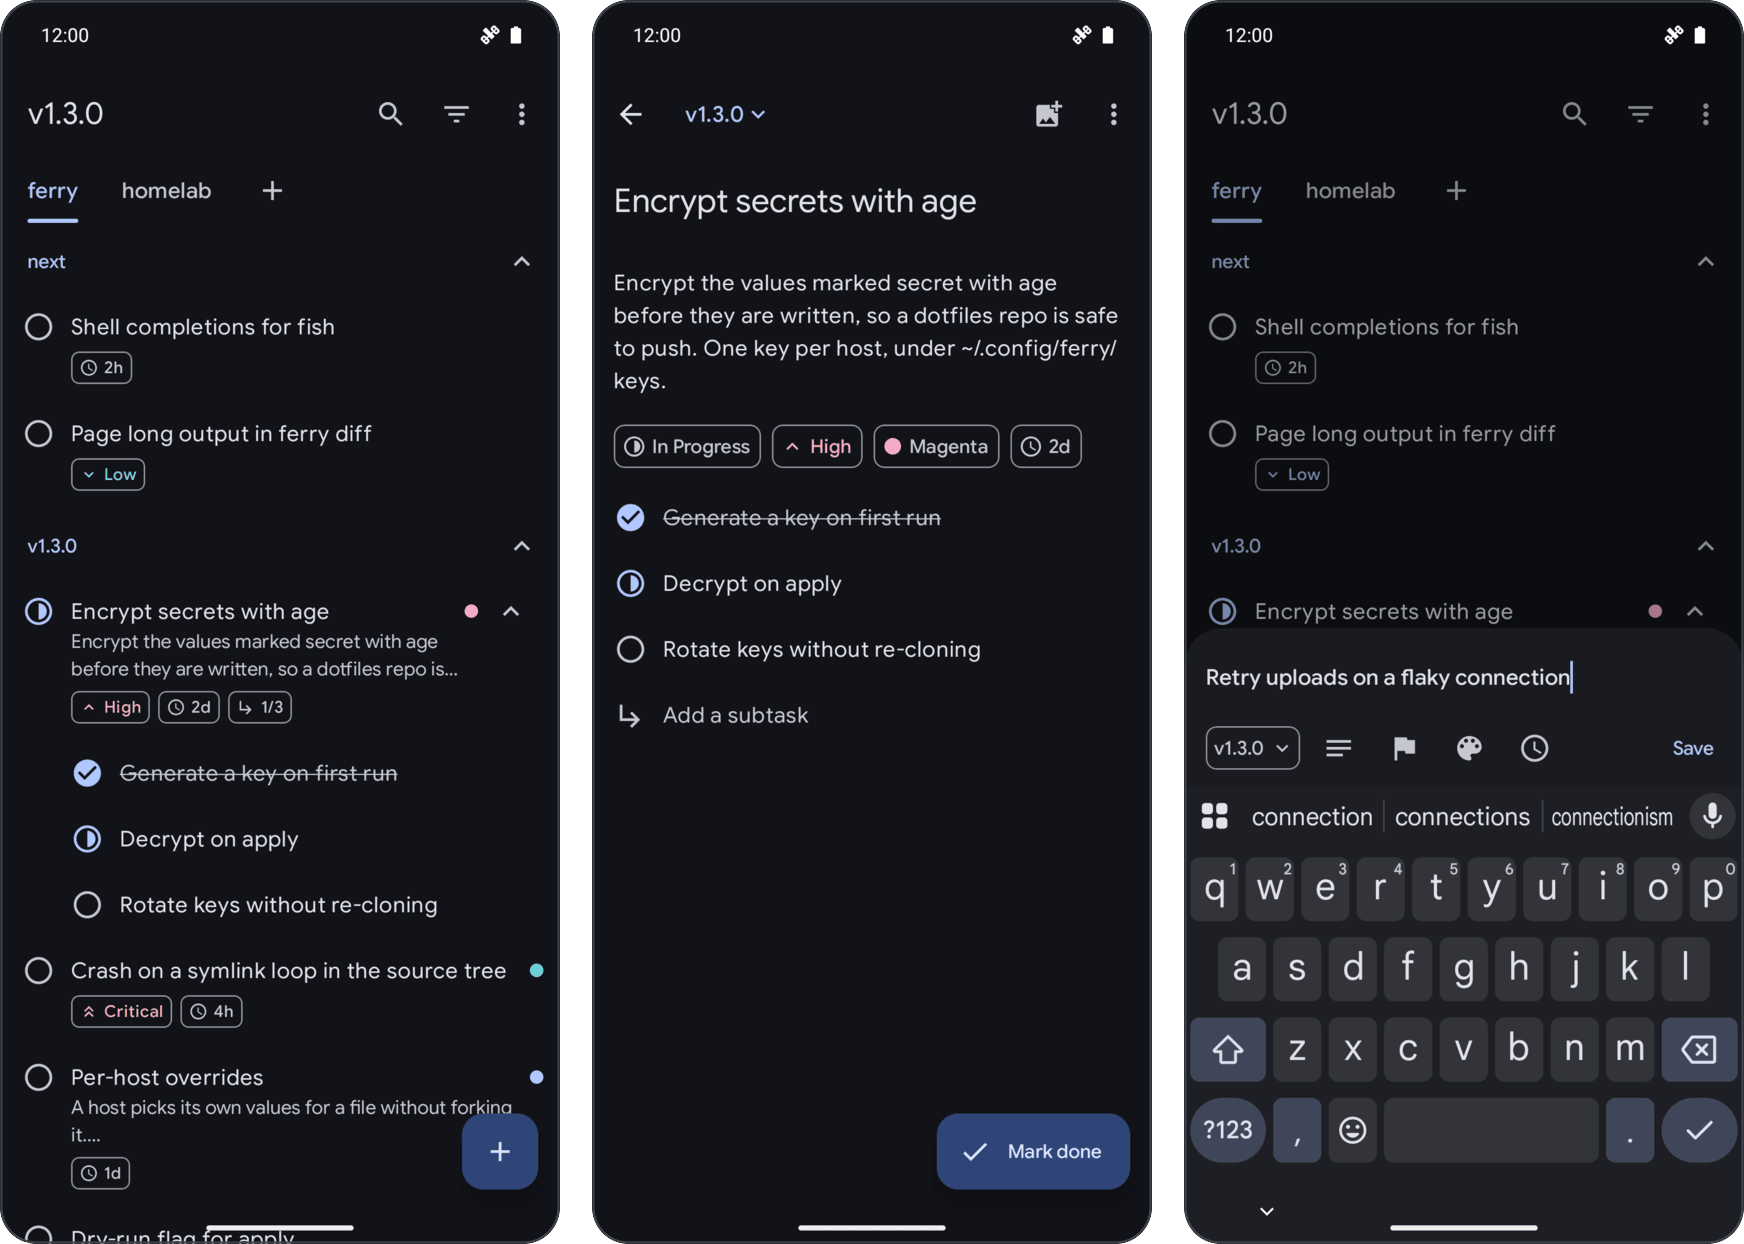
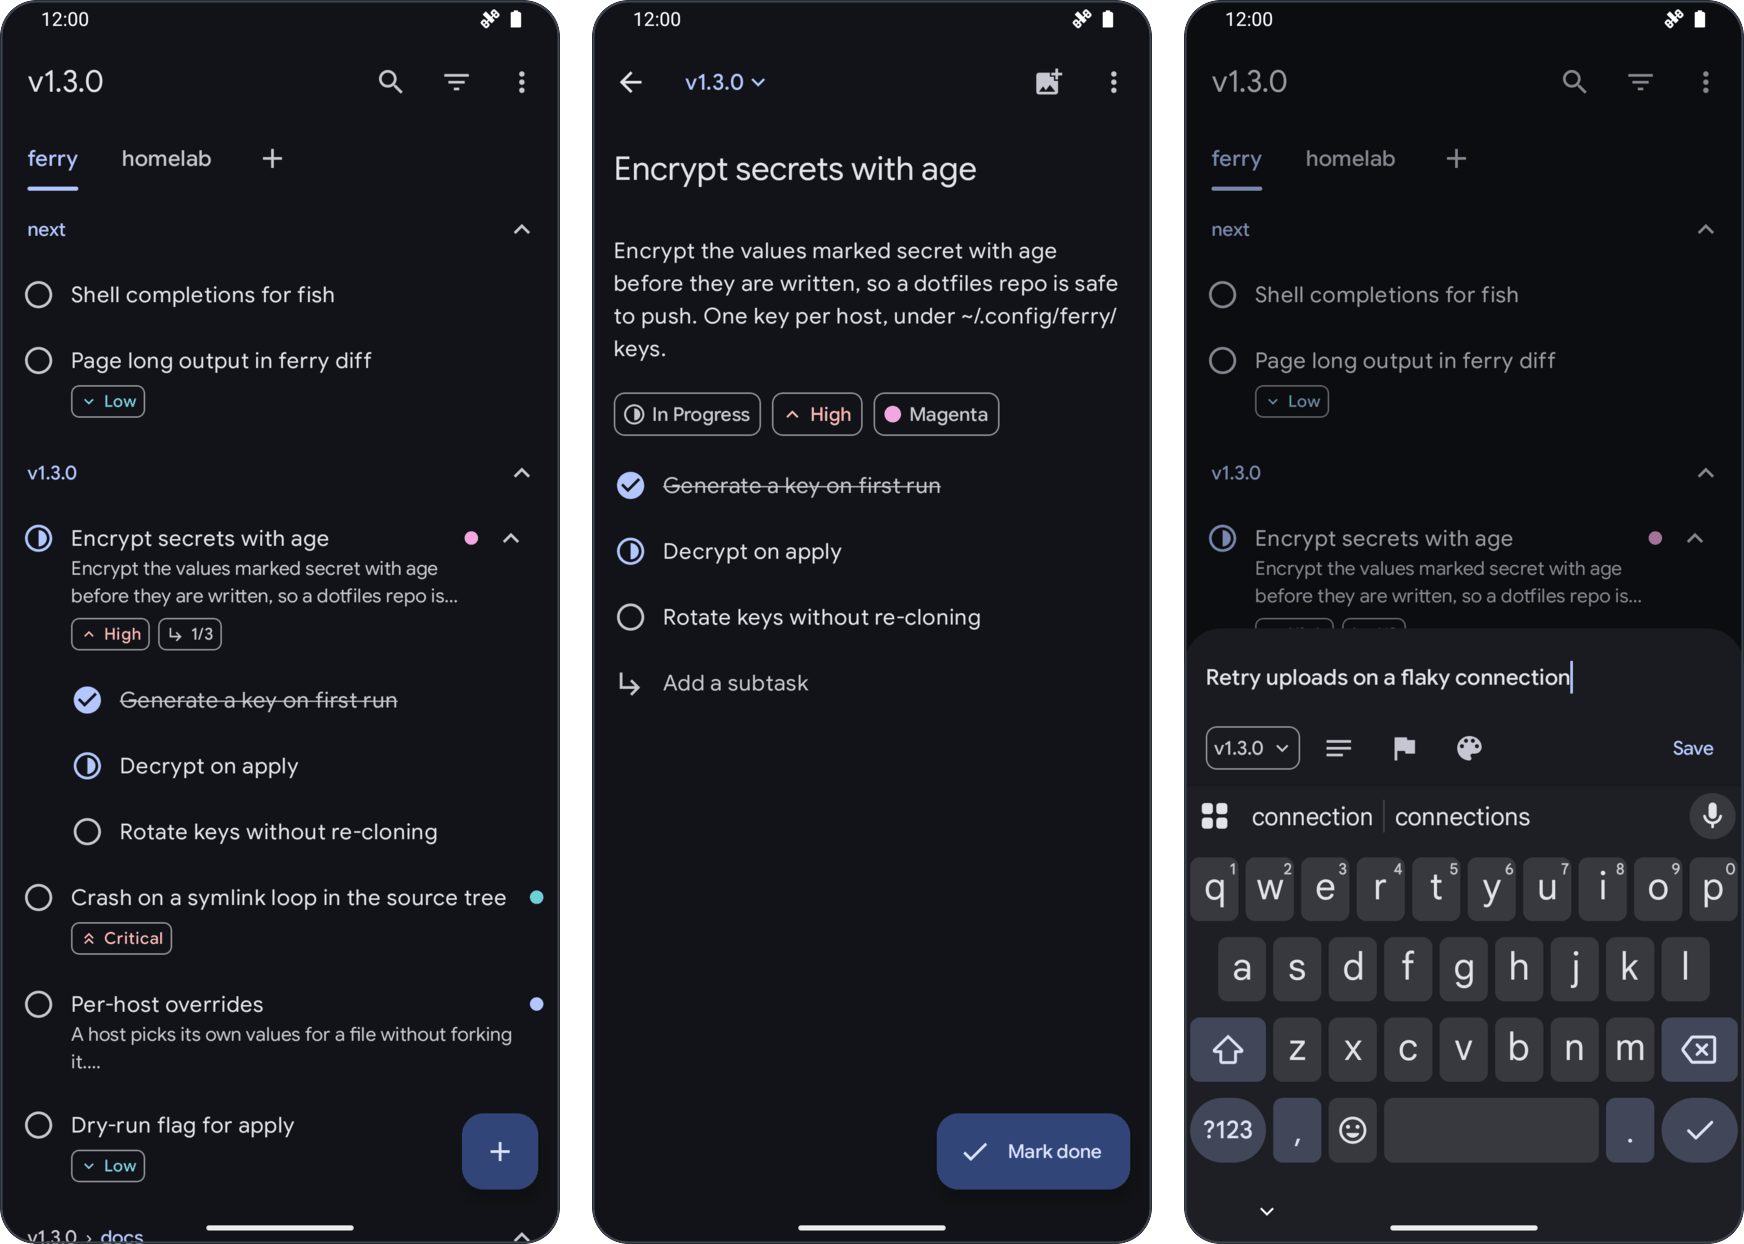
docs(readme): reshoot the phone screens without estimates

diff --git a/README.md b/README.md
@@ -110,7 +110,7 @@ The TUI doesn't watch the file: once an edit from the app lands, the TUI's next 
 
 <picture>
   <source media="(prefers-color-scheme: dark)" srcset="assets/phone-dark.png">
-  <img alt="The Ordo app on a phone: the ferry project's tasks under the project tabs, a task with its description, status, priority, tag, estimate and subtasks, and the sheet adding a task" src="assets/phone-light.png">
+  <img alt="The Ordo app on a phone: the ferry project's tasks under the project tabs, a task with its description, status, priority, tag and subtasks, and the sheet adding a task" src="assets/phone-light.png">
 </picture>
 
 ```bash
